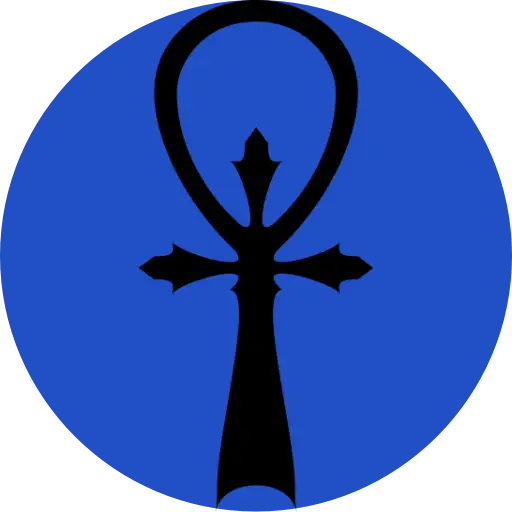
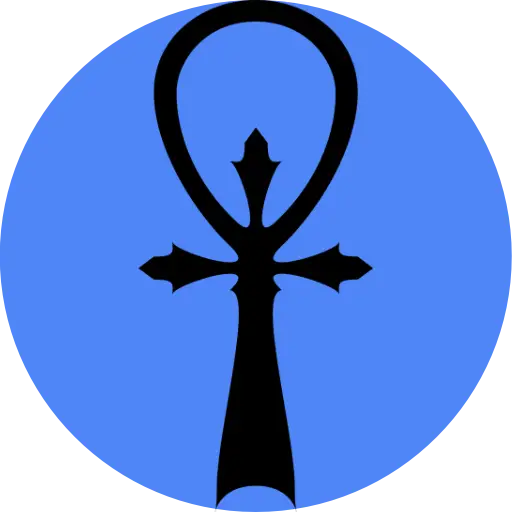
update

diff --git a/index.html b/index.html
@@ -769,63 +769,12 @@ var bounds0 = [[0,0], [-1140,1424]];
 var image0 = L.imageOverlay('img/mapblank.webp', bounds0).addTo(map);
 map.fitBounds(bounds0);
 
-<!--New Orleans inner city-->
-
-<!--New Orleans East District-->
-var latlngsLW = [[-130,1267],[-139,1275],[-204,1280],[-216,1278],[-258,1277],[-293,1277],[-315,1278],[-324,1243],[-336,1119],[-352,1091],[-241,1059],[-190,1069],[-190,1083],[-219,1110],[-228,1113],[-204,1165],[-173,1214]];
-
-var polygonLW = L.polygon(latlngsLW, {color: '#ffcc00', stroke: true, opacity: [0.75], fillOpacity: [0.2], smoothFactor: [3.0]}).addTo(map).bindPopup('<p><center><u>New Orleans East District</u></br></br><img src="img/Giovanni.webp" style="width:40px;height:40px;"></br>Giovanni</p>');
-<!--Venetian Isles-->
-var latlngsLW = [[-130,1267],[-139,1275],[-204,1280],[-216,1278],[-258,1277],[-293,1277],[-315,1278],[-297,1350],[-261,1424],[0,1424],[0,1369],[-46,1339],[-96,1300]];
-
-var polygonLW = L.polygon(latlngsLW, {color: '#ffcc00', stroke: true, opacity: [0.75], fillOpacity: [0.2], smoothFactor: [3.0]}).addTo(map).bindPopup('<p><center><u>Venetian Isles</u></br></br><img src="img/Giovanni.webp" style="width:40px;height:40px;"></br>Giovanni</p>');
-<!--Lower 9th Ward-->
-var latlngsLW = [[-378,1090],[-386,1125],[-396,1148],[-407,1149],[-401,1156],[-409,1176],[-459,1153],[-461,1154],[-469,1150],[-469,1149],[-497,1151],[-446,1077],[-435,1074]];
-
-var polygonLW = L.polygon(latlngsLW, {color: '#ff2800', stroke: true, opacity: [0.75], fillOpacity: [0.2], smoothFactor: [3.0]}).addTo(map).bindPopup('<p><center><u>Lower 9th Ward</u></br></br><img src="img/Anarch.webp" style="width:40px;height:40px;"></br>Anarch</p>');
-<!--New Aurora-->
-var latlngsLW = [[-514,1175],[-532,1243],[-537,1313],[-580,1346],[-604,1355],[-655,1360],[-655,1272],[-641,1206],[-618,1169],[-618,1164]];
-
-var polygonLW = L.polygon(latlngsLW, {color: '#536878', stroke: true, opacity: [0.75], fillOpacity: [0.2], smoothFactor: [3.0]}).addTo(map).bindPopup('<p><center><u>New Aurora</u></br></br><img src="img/Assamite.webp" style="width:40px;height:40px;"></br>Assamite</p>');
-<!--Algiers-->
-var latlngsLW = [[-514,1175],[-618,1164],[-596,1136],[-610,1135],[-601,1122],[-598,1122],[-473,1006],[-469,1006],[-442,1009],[-437,1019],[-446,1077]];
-
-var polygonLW = L.polygon(latlngsLW, {color: 'black', stroke: true, opacity: [0.75], fillOpacity: [0.2], smoothFactor: [3.0]}).addTo(map).bindPopup('<p><center><u>Algiers</p>');
-<!--Bywater-->
-var latlngsLW = [[-305,1077],[-352,1091],[-378,1090],[-435,1074],[-446,1077],[-437,1019],[-417,995],[-411,1000],[-410,1010],[-366,1007],[-356,973],[-347,964],[-352,973],[-349,1027],[-337,1037],[-321,1035],[-319,1046]];
-
-var polygonLW = L.polygon(latlngsLW, {color: '#ff2800', stroke: true, opacity: [0.75], fillOpacity: [0.2], smoothFactor: [3.0]}).addTo(map).bindPopup('<p><center><u>Bywater</u></br></br><img src="img/Anarch.webp" style="width:40px;height:40px;"></br>Anarch</p>');
-<!--Gentily-->
-var latlngsLW = [[-349,1027],[-337,1037],[-321,1035],[-319,1046],[-305,1077],[-241,1059],[-232,1038],[-238,970],[-249,951],[-271,951],[-286,946],[-330,945],[-328,972],[-352,973]];
-
-var polygonLW = L.polygon(latlngsLW, {color: 'black', stroke: true, opacity: [0.75], fillOpacity: [0.2], smoothFactor: [3.0]}).addTo(map).bindPopup('<p><center><u>Gentily</p>');
-<!--Lakeview-->
-var latlngsLW = [[-330,945],[-286,946],[-271,951],[-249,951],[-249,865],[-249,865],[-390,855],[-391,861],[-395,871],[-386,884],[-377,881],[-369,904],[-372,935],[-346,944]];
-
-var polygonLW = L.polygon(latlngsLW, {color: '#214fc6', stroke: true, opacity: [0.75], fillOpacity: [0.2], smoothFactor: [3.0]}).addTo(map).bindPopup('<p><center><u>Lakeview</u></br></br><img src="img/Camarilla.webp" style="width:40px;height:40px;"></br>Camarilla</p>');
-<!--Mid-City-->
-var latlngsLW = [[-386,884],[-377,881],[-369,904],[-372,935],[-346,944],[-330,945],[-328,972],[-352,973],[-347,964],[-356,973],[-366,1007],[-410,1010],[-411,1000],[-435,980],[-433,978],[-439,973],[-433,965],[-468,938],[-430,878],[-424,872],[-411,884],[-417,890],[-412,894],[-410,891]];
-
-var polygonLW = L.polygon(latlngsLW, {color: '#ff2800', stroke: true, opacity: [0.75], fillOpacity: [0.2], smoothFactor: [3.0]}).addTo(map).bindPopup('<p><center><u>Mid-City</u></br></br><img src="img/Anarch.webp" style="width:40px;height:40px;"></br>Anarch</p>');
-<!--French Quarter-->
-var latlngsLW = [[-439,973],[-433,978],[-435,980],[-417,995],[-437,1019],[-442,1009],[-469,1006],[-456,989],[-453,990]];
-
-var polygonLW = L.polygon(latlngsLW, {color: '#214fc6', stroke: true, opacity: [0.75], fillOpacity: [0.2], smoothFactor: [3.0]}).addTo(map).bindPopup('<p><center><u>French Quarter</u></br></br><img src="img/Camarilla.webp" style="width:40px;height:40px;"></br>Camarilla</p>');
-<!--Garden District-->
-var latlngsLW = [[-449,908],[-468,938],[-433,965],[-453,990],[-456,989],[-469,1006],[-473,1006],[-508,1009],[-538,979],[-557,932],[-562,911],[-484,904],[-483,915],[-480,921]];
-
-var polygonLW = L.polygon(latlngsLW, {color: '#214fc6', stroke: true, opacity: [0.75], fillOpacity: [0.2], smoothFactor: [3.0]}).addTo(map).bindPopup('<p><center><u>Garden District</u></br></br><img src="img/Camarilla.webp" style="width:40px;height:40px;"></br>Camarilla</p>');
-<!--Uptown District-->
-var latlngsLW = [[-465,821],[-409,849],[-390,855],[-391,861],[-395,871],[-386,884],[-410,891],[-412,894],[-417,890],[-411,884],[-424,872],[-430,878],[-449,908],[-480,921],[-483,915],[-484,904],[-562,911],[-568,888],[-561,850],[-540,825],[-505,824]];
-
-var polygonLW = L.polygon(latlngsLW, {color: '#214fc6', stroke: true, opacity: [0.75], fillOpacity: [0.2], smoothFactor: [3.0]}).addTo(map).bindPopup('<p><center><u>Uptown District</u></br></br><img src="img/Camarilla.webp" style="width:40px;height:40px;"></br>Camarilla</p>');
-
 <!--New Orleans outskirts-->
 
 <!--Bayou Bienvenue-->
 var latlngsLW = [[-261,1424],[-297,1350],[-324,1243],[-336,1119],[-352,1091],[-378,1090],[-386,1125],[-396,1148],[-407,1149],[-401,1156],[-431,1230],[-444,1236],[-434,1241],[-481,1353],[-532,1385],[-543,1391],[-570,1409],[-605,1424]];
 
-var polygonLW = L.polygon(latlngsLW, {color: '#8bbe1b', stroke: true, opacity: [0.75], fillOpacity: [0.2], smoothFactor: [3.0]}).addTo(map).bindPopup('<p><center><u>Bayou Bienvenue</u></br></br><img src="img/Samedi.webp" style="width:40px;height:40px;"></br>Samedi</p>');
+var polygonLW = L.polygon(latlngsLW, {color: 'black', stroke: true, opacity: [0.75], fillOpacity: [0.2], smoothFactor: [3.0]}).addTo(map).bindPopup('<p><center><u>Bayou Bienvenue</u></p>');
 <!--Chalmette-->
 var latlngsLW = [[-409,1176],[-431,1230],[-444,1236],[-434,1241],[-459,1300],[-510,1272],[-510,1252],[-532,1243],[-514,1175],[-497,1151],[-469,1149],[-469,1150],[-461,1154],[-459,1153]];
 
@@ -937,7 +886,7 @@ var polygonLW = L.polygon(latlngsLW, {color: 'black', stroke: true, opacity: [0.
 <!--Metarie-->
 var latlngsLW = [[-224,640],[-266,864],[-390,855],[-409,849],[-403,744],[-397,664],[-392,599]];
 
-var polygonLW = L.polygon(latlngsLW, {color: '#214fc6', stroke: true, opacity: [0.75], fillOpacity: [0.2], smoothFactor: [3.0]}).addTo(map).bindPopup('<p><center><u>Metarie</u></br></br><img src="img/Camarilla.webp" style="width:40px;height:40px;"></br>Camarilla</p>');
+var polygonLW = L.polygon(latlngsLW, {color: '#4f86f7', stroke: true, opacity: [0.75], fillOpacity: [0.2], smoothFactor: [3.0]}).addTo(map).bindPopup('<p><center><u>Metarie</u></br></br><img src="img/Camarilla.webp" style="width:40px;height:40px;"></br>Camarilla</p>');
 <!--River Ridge-->
 var latlngsLW = [[-392,599],[-397,664],[-445,680],[-502,641],[-463,631],[-429,607],[-420,592]];
 
@@ -953,7 +902,58 @@ var polygonLW = L.polygon(latlngsLW, {color: 'black', stroke: true, opacity: [0.
 <!--Jefferson-->
 var latlngsLW = [[-403,744],[-409,849],[-465,821],[-443,804],[-452,776],[-472,753],[-464,745],[-458,750],[-440,739],[-438,742],[-411,735],[-407,744]];
 
-var polygonLW = L.polygon(latlngsLW, {color: '#214fc6', stroke: true, opacity: [0.75], fillOpacity: [0.2], smoothFactor: [3.0]}).addTo(map).bindPopup('<p><center><u>Jefferson</u></br></br><img src="img/Camarilla.webp" style="width:40px;height:40px;"></br>Camarilla</p>');
+var polygonLW = L.polygon(latlngsLW, {color: '#4f86f7', stroke: true, opacity: [0.75], fillOpacity: [0.2], smoothFactor: [3.0]}).addTo(map).bindPopup('<p><center><u>Jefferson</u></br></br><img src="img/Camarilla.webp" style="width:40px;height:40px;"></br>Camarilla</p>');
+
+<!--New Orleans inner city-->
+
+<!--New Orleans East District-->
+var latlngsLW = [[-130,1267],[-139,1275],[-204,1280],[-216,1278],[-258,1277],[-293,1277],[-315,1278],[-324,1243],[-336,1119],[-352,1091],[-241,1059],[-190,1069],[-190,1083],[-219,1110],[-228,1113],[-204,1165],[-173,1214]];
+
+var polygonLW = L.polygon(latlngsLW, {color: '#ffcc00', stroke: true, opacity: [0.75], fillOpacity: [0.2], smoothFactor: [3.0]}).addTo(map).bindPopup('<p><center><u>New Orleans East District</u></br></br><img src="img/Giovanni.webp" style="width:40px;height:40px;"></br>Giovanni</p>');
+<!--Venetian Isles-->
+var latlngsLW = [[-130,1267],[-139,1275],[-204,1280],[-216,1278],[-258,1277],[-293,1277],[-315,1278],[-297,1350],[-261,1424],[0,1424],[0,1369],[-46,1339],[-96,1300]];
+
+var polygonLW = L.polygon(latlngsLW, {color: '#ffcc00', stroke: true, opacity: [0.75], fillOpacity: [0.2], smoothFactor: [3.0]}).addTo(map).bindPopup('<p><center><u>Venetian Isles</u></br></br><img src="img/Giovanni.webp" style="width:40px;height:40px;"></br>Giovanni</p>');
+<!--Lower 9th Ward-->
+var latlngsLW = [[-378,1090],[-386,1125],[-396,1148],[-407,1149],[-401,1156],[-409,1176],[-459,1153],[-461,1154],[-469,1150],[-469,1149],[-497,1151],[-446,1077],[-435,1074]];
+
+var polygonLW = L.polygon(latlngsLW, {color: '#ff2800', stroke: true, opacity: [0.75], fillOpacity: [0.2], smoothFactor: [3.0]}).addTo(map).bindPopup('<p><center><u>Lower 9th Ward</u></br></br><img src="img/Anarch.webp" style="width:40px;height:40px;"></br>Anarch</p>');
+<!--New Aurora-->
+var latlngsLW = [[-514,1175],[-532,1243],[-537,1313],[-580,1346],[-604,1355],[-655,1360],[-655,1272],[-641,1206],[-618,1169],[-618,1164]];
+
+var polygonLW = L.polygon(latlngsLW, {color: '#848482', stroke: true, opacity: [0.75], fillOpacity: [0.2], smoothFactor: [3.0]}).addTo(map).bindPopup('<p><center><u>New Aurora</u></br></br><img src="img/Assamite.webp" style="width:40px;height:40px;"></br>Assamite</p>');
+<!--Algiers-->
+var latlngsLW = [[-514,1175],[-618,1164],[-596,1136],[-610,1135],[-601,1122],[-598,1122],[-473,1006],[-469,1006],[-442,1009],[-437,1019],[-446,1077]];
+
+var polygonLW = L.polygon(latlngsLW, {color: 'black', stroke: true, opacity: [0.75], fillOpacity: [0.2], smoothFactor: [3.0]}).addTo(map).bindPopup('<p><center><u>Algiers</p>');
+<!--Bywater-->
+var latlngsLW = [[-305,1077],[-352,1091],[-378,1090],[-435,1074],[-446,1077],[-437,1019],[-417,995],[-411,1000],[-410,1010],[-366,1007],[-356,973],[-347,964],[-352,973],[-349,1027],[-337,1037],[-321,1035],[-319,1046]];
+
+var polygonLW = L.polygon(latlngsLW, {color: '#ff2800', stroke: true, opacity: [0.75], fillOpacity: [0.2], smoothFactor: [3.0]}).addTo(map).bindPopup('<p><center><u>Bywater</u></br></br><img src="img/Anarch.webp" style="width:40px;height:40px;"></br>Anarch</p>');
+<!--Gentily-->
+var latlngsLW = [[-349,1027],[-337,1037],[-321,1035],[-319,1046],[-305,1077],[-241,1059],[-232,1038],[-238,970],[-249,951],[-271,951],[-286,946],[-330,945],[-328,972],[-352,973]];
+
+var polygonLW = L.polygon(latlngsLW, {color: 'black', stroke: true, opacity: [0.75], fillOpacity: [0.2], smoothFactor: [3.0]}).addTo(map).bindPopup('<p><center><u>Gentily</p>');
+<!--Lakeview-->
+var latlngsLW = [[-330,945],[-286,946],[-271,951],[-249,951],[-249,865],[-249,865],[-390,855],[-391,861],[-395,871],[-386,884],[-377,881],[-369,904],[-372,935],[-346,944]];
+
+var polygonLW = L.polygon(latlngsLW, {color: '#4f86f7', stroke: true, opacity: [0.75], fillOpacity: [0.2], smoothFactor: [3.0]}).addTo(map).bindPopup('<p><center><u>Lakeview</u></br></br><img src="img/Camarilla.webp" style="width:40px;height:40px;"></br>Camarilla</p>');
+<!--Mid-City-->
+var latlngsLW = [[-386,884],[-377,881],[-369,904],[-372,935],[-346,944],[-330,945],[-328,972],[-352,973],[-347,964],[-356,973],[-366,1007],[-410,1010],[-411,1000],[-435,980],[-433,978],[-439,973],[-433,965],[-468,938],[-430,878],[-424,872],[-411,884],[-417,890],[-412,894],[-410,891]];
+
+var polygonLW = L.polygon(latlngsLW, {color: '#ff2800', stroke: true, opacity: [0.75], fillOpacity: [0.2], smoothFactor: [3.0]}).addTo(map).bindPopup('<p><center><u>Mid-City</u></br></br><img src="img/Anarch.webp" style="width:40px;height:40px;"></br>Anarch</p>');
+<!--French Quarter-->
+var latlngsLW = [[-439,973],[-433,978],[-435,980],[-417,995],[-437,1019],[-442,1009],[-469,1006],[-456,989],[-453,990]];
+
+var polygonLW = L.polygon(latlngsLW, {color: '#4f86f7', stroke: true, opacity: [0.75], fillOpacity: [0.2], smoothFactor: [3.0]}).addTo(map).bindPopup('<p><center><u>French Quarter</u></br></br><img src="img/Camarilla.webp" style="width:40px;height:40px;"></br>Camarilla</p>');
+<!--Garden District-->
+var latlngsLW = [[-449,908],[-468,938],[-433,965],[-453,990],[-456,989],[-469,1006],[-473,1006],[-508,1009],[-538,979],[-557,932],[-562,911],[-484,904],[-483,915],[-480,921]];
+
+var polygonLW = L.polygon(latlngsLW, {color: '#4f86f7', stroke: true, opacity: [0.75], fillOpacity: [0.2], smoothFactor: [3.0]}).addTo(map).bindPopup('<p><center><u>Garden District</u></br></br><img src="img/Camarilla.webp" style="width:40px;height:40px;"></br>Camarilla</p>');
+<!--Uptown District-->
+var latlngsLW = [[-465,821],[-409,849],[-390,855],[-391,861],[-395,871],[-386,884],[-410,891],[-412,894],[-417,890],[-411,884],[-424,872],[-430,878],[-449,908],[-480,921],[-483,915],[-484,904],[-562,911],[-568,888],[-561,850],[-540,825],[-505,824]];
+
+var polygonLW = L.polygon(latlngsLW, {color: '#4f86f7', stroke: true, opacity: [0.75], fillOpacity: [0.2], smoothFactor: [3.0]}).addTo(map).bindPopup('<p><center><u>Uptown District</u></br></br><img src="img/Camarilla.webp" style="width:40px;height:40px;"></br>Camarilla</p>');
 
 var CamIcon = L.icon({
 	iconUrl: 'img/Camarilla.webp',
@@ -999,6 +999,111 @@ var AssamiteIcon = L.icon({
 });
 var SamediIcon = L.icon({
 	iconUrl: 'img/Samedi.webp',
+	iconSize: [28, 28],
+	iconAnchor: [14, 28],
+	tooltipAnchor: [0, 28],
+	popupAnchor: [0, -28],
+});
+var BrujahIcon = L.icon({
+	iconUrl: 'img/Brujah.webp',
+	iconSize: [28, 28],
+	iconAnchor: [14, 28],
+	tooltipAnchor: [0, 28],
+	popupAnchor: [0, -28],
+});
+var LamiaIcon = L.icon({
+	iconUrl: 'img/Lamia.webp',
+	iconSize: [28, 28],
+	iconAnchor: [14, 28],
+	tooltipAnchor: [0, 28],
+	popupAnchor: [0, -28],
+});
+var MaegharIcon = L.icon({
+	iconUrl: 'img/Maeghar.webp',
+	iconSize: [28, 28],
+	iconAnchor: [14, 28],
+	tooltipAnchor: [0, 28],
+	popupAnchor: [0, -28],
+});
+var KiasydIcon = L.icon({
+	iconUrl: 'img/Kiasyd.webp',
+	iconSize: [28, 28],
+	iconAnchor: [14, 28],
+	tooltipAnchor: [0, 28],
+	popupAnchor: [0, -28],
+});
+var CaitiffIcon = L.icon({
+	iconUrl: 'img/Caitiff.webp',
+	iconSize: [28, 28],
+	iconAnchor: [14, 28],
+	tooltipAnchor: [0, 28],
+	popupAnchor: [0, -28],
+});
+var GargoyleIcon = L.icon({
+	iconUrl: 'img/Gargoyle.webp',
+	iconSize: [28, 28],
+	iconAnchor: [14, 28],
+	tooltipAnchor: [0, 28],
+	popupAnchor: [0, -28],
+});
+var TzimisceIcon = L.icon({
+	iconUrl: 'img/Tzimisce.webp',
+	iconSize: [28, 28],
+	iconAnchor: [14, 28],
+	tooltipAnchor: [0, 28],
+	popupAnchor: [0, -28],
+});
+var MalkIcon = L.icon({
+	iconUrl: 'img/Malkavian.webp',
+	iconSize: [28, 28],
+	iconAnchor: [14, 28],
+	tooltipAnchor: [0, 28],
+	popupAnchor: [0, -28],
+});
+var VentrueIcon = L.icon({
+	iconUrl: 'img/Ventrue.webp',
+	iconSize: [28, 28],
+	iconAnchor: [14, 28],
+	tooltipAnchor: [0, 28],
+	popupAnchor: [0, -28],
+});
+var TremereIcon = L.icon({
+	iconUrl: 'img/Tremere.webp',
+	iconSize: [28, 28],
+	iconAnchor: [14, 28],
+	tooltipAnchor: [0, 28],
+	popupAnchor: [0, -28],
+});
+var NosferatuIcon = L.icon({
+	iconUrl: 'img/Nosferatu.webp',
+	iconSize: [28, 28],
+	iconAnchor: [14, 28],
+	tooltipAnchor: [0, 28],
+	popupAnchor: [0, -28],
+});
+var ToreadorIcon = L.icon({
+	iconUrl: 'img/Toreador.webp',
+	iconSize: [28, 28],
+	iconAnchor: [14, 28],
+	tooltipAnchor: [0, 28],
+	popupAnchor: [0, -28],
+});
+var SetiteIcon = L.icon({
+	iconUrl: 'img/Setite.webp',
+	iconSize: [28, 28],
+	iconAnchor: [14, 28],
+	tooltipAnchor: [0, 28],
+	popupAnchor: [0, -28],
+});
+var LasombraIcon = L.icon({
+	iconUrl: 'img/Lasombra.webp',
+	iconSize: [28, 28],
+	iconAnchor: [14, 28],
+	tooltipAnchor: [0, 28],
+	popupAnchor: [0, -28],
+});
+var RavnosIcon = L.icon({
+	iconUrl: 'img/Ravnos.webp',
 	iconSize: [28, 28],
 	iconAnchor: [14, 28],
 	tooltipAnchor: [0, 28],
@@ -1070,6 +1175,9 @@ L.marker([-220,1080],{icon: AirportIcon},{riseOnHover: true}).addTo(map).bindPop
 
 <!--New Orleans Botanical Garden-->
 L.marker([-358,922],{icon: FlowerIcon},{riseOnHover: true}).addTo(map).bindPopup('<p><center><u>New Orleans Botanical Garden</u></p>');
+
+<!--Mysterious Shack-->
+L.marker([-423,1327],{icon: SamediIcon},{riseOnHover: true}).addTo(map).bindPopup('<p><center><u>Mysterious Shack</u></br></br><img src="img/Samedi.webp" style="width:40px;height:40px;"></p>');
 
 <!--Elysium-->
 <!--L.marker([-363.5,927.5],{icon: CamIcon},{riseOnHover: true}).addTo(map).bindPopup('<p><center><u>Elysium<br />New Orleans Museum of Art</center></p>');-->
